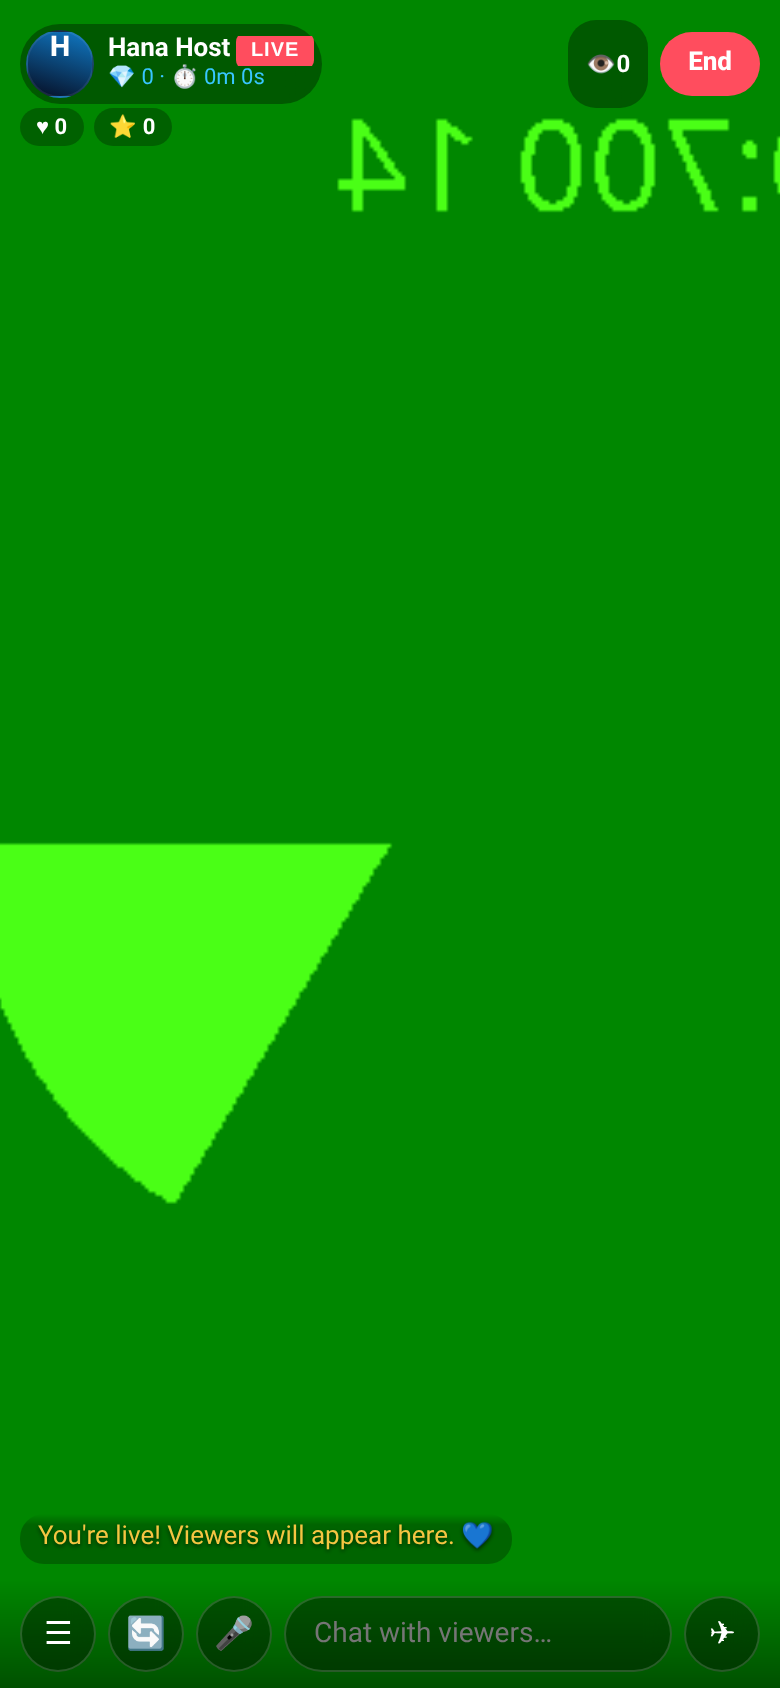
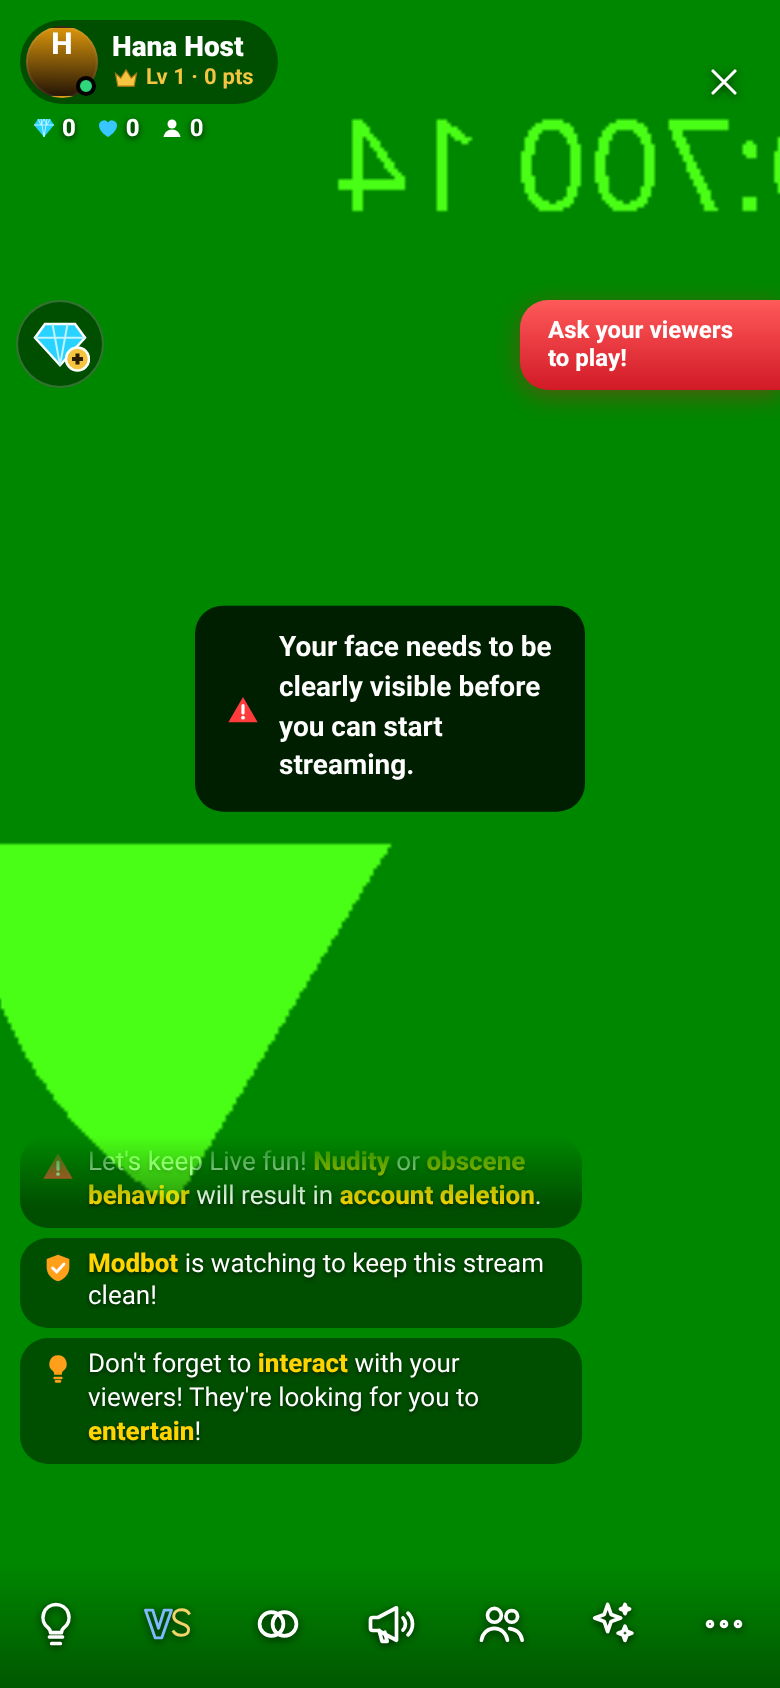
Gift tabs: keep count on one line

diff --git a/index.html b/index.html
@@ -1,4 +1,4 @@
 <!doctype html><html lang="en"><head><meta charset="utf-8"><meta name="viewport" content="width=device-width,initial-scale=1,viewport-fit=cover">
 <title>Tap.in — Live</title><meta name="theme-color" content="#07080c"><link rel="icon" href="/favicon.ico?v=2" sizes="any"><link rel="icon" type="image/png" sizes="32x32" href="/img/icon-32.png?v=2"><meta property="og:title" content="Tap.in LIVE"><meta property="og:description" content="Live streams, chat & dating."><meta property="og:type" content="website"><meta property="og:url" content="https://tapin-panf.onrender.com/"><meta property="og:image" content="https://tapin-panf.onrender.com/img/og.png"><meta property="og:image:width" content="1200"><meta property="og:image:height" content="630"><meta name="twitter:card" content="summary_large_image"><meta name="twitter:image" content="https://tapin-panf.onrender.com/img/og.png"><link rel="manifest" href="/manifest.webmanifest">
-<link rel="apple-touch-icon" sizes="180x180" href="/img/apple-touch-icon.png?v=2"><meta name="apple-mobile-web-app-capable" content="yes"><meta name="mobile-web-app-capable" content="yes"><meta name="apple-mobile-web-app-status-bar-style" content="black-translucent"><meta name="apple-mobile-web-app-title" content="Tap.in"><link rel="stylesheet" href="css/style.css?v=5"><link rel="stylesheet" href="css/gaps.css?v=1"><link rel="stylesheet" href="css/batch.css?v=1"></head>
+<link rel="apple-touch-icon" sizes="180x180" href="/img/apple-touch-icon.png?v=2"><meta name="apple-mobile-web-app-capable" content="yes"><meta name="mobile-web-app-capable" content="yes"><meta name="apple-mobile-web-app-status-bar-style" content="black-translucent"><meta name="apple-mobile-web-app-title" content="Tap.in"><link rel="stylesheet" href="css/style.css?v=5"><link rel="stylesheet" href="css/gaps.css?v=1"><link rel="stylesheet" href="css/batch.css?v=2"></head>
 <body><script src="/socket.io/socket.io.js"></script><script src="js/gifts.js"></script><script src="js/app.js"></script><script src="js/livetools.js"></script><script src="js/gaps.js"></script><script src="js/batch.js"></script></body></html>

diff --git a/css/batch.css b/css/batch.css
@@ -29,3 +29,4 @@
 .lookf{display:block;margin-top:2px}
 .oauth{margin-top:14px;display:grid;gap:8px;justify-items:center}.oauth .or{width:100%;display:flex;align-items:center;gap:8px;color:#9aa3b5}.oauth .or:before,.oauth .or:after{content:"";flex:1;height:1px;background:#222a38}
 .uph .mgrad{pointer-events:none;z-index:1}.uph .upi{z-index:2}
+.gtabs b{white-space:nowrap}.gtabs b .gcnt{font-size:10px;padding:0 4px;margin-left:2px}@media(max-width:400px){.gtabs b{font-size:15px}}
